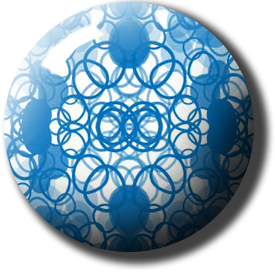
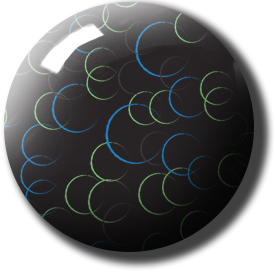
added calendar bubble to animation

diff --git a/index.html b/index.html
@@ -100,6 +100,31 @@ rel="stylesheet"/>
 				<div class="more-info-box-img-box"><img class= "more-info-img" src="images/blackjack.png"></div>
 				<div class="more-info-text"><h1>Blackjack</h2>An app I programmed using javascript and jquery. Everything is coded from scratch. Cards feature a realistic drawing mechanic where if a card is drawn it won't appear again until the deck is shuffled again. <a href="appshowcase.html?app=blackjack">See App</a></div>
 			</div>
+			<div class="more-info-box hidden">
+				<span class="glyphicon glyphicon-remove-circle close-button"></span>
+				<div class="more-info-box-img-box"><img class= "more-info-img" src="images/blackjack.png"></div>
+				<div class="more-info-text"><h1>Blackjack</h2>An app I programmed using javascript and jquery. Everything is coded from scratch. Cards feature a realistic drawing mechanic where if a card is drawn it won't appear again until the deck is shuffled again. <a href="appshowcase.html?app=blackjack">See App</a></div>
+			</div>
+			<div class="more-info-box hidden">
+				<span class="glyphicon glyphicon-remove-circle close-button"></span>
+				<div class="more-info-box-img-box"><img class= "more-info-img" src="images/blackjack.png"></div>
+				<div class="more-info-text"><h1>Blackjack</h2>An app I programmed using javascript and jquery. Everything is coded from scratch. Cards feature a realistic drawing mechanic where if a card is drawn it won't appear again until the deck is shuffled again. <a href="appshowcase.html?app=blackjack">See App</a></div>
+			</div>
+			<div class="more-info-box hidden">
+				<span class="glyphicon glyphicon-remove-circle close-button"></span>
+				<div class="more-info-box-img-box"><img class= "more-info-img" src="images/blackjack.png"></div>
+				<div class="more-info-text"><h1>Blackjack</h2>An app I programmed using javascript and jquery. Everything is coded from scratch. Cards feature a realistic drawing mechanic where if a card is drawn it won't appear again until the deck is shuffled again. <a href="appshowcase.html?app=blackjack">See App</a></div>
+			</div>
+			<div class="more-info-box hidden">
+				<span class="glyphicon glyphicon-remove-circle close-button"></span>
+				<div class="more-info-box-img-box"><img class= "more-info-img" src="images/blackjack.png"></div>
+				<div class="more-info-text"><h1>Blackjack</h2>An app I programmed using javascript and jquery. Everything is coded from scratch. Cards feature a realistic drawing mechanic where if a card is drawn it won't appear again until the deck is shuffled again. <a href="appshowcase.html?app=blackjack">See App</a></div>
+			</div>
+						<div class="more-info-box hidden">
+				<span class="glyphicon glyphicon-remove-circle close-button"></span>
+				<div class="more-info-box-img-box"><img class= "more-info-img" src="images/blackjack.png"></div>
+				<div class="more-info-text"><h1>Blackjack</h2>An app I programmed using javascript and jquery. Everything is coded from scratch. Cards feature a realistic drawing mechanic where if a card is drawn it won't appear again until the deck is shuffled again. <a href="appshowcase.html?app=blackjack">See App</a></div>
+			</div>
 			<div id="home-animation">
 				<div id="home-animation-heading">
 					Project Showcase<br>
@@ -157,6 +182,14 @@ rel="stylesheet"/>
 						<span class="small-text">HTML, CSS, Bootstrap, Javascript, Jquery <br>
 						(Click for More Info)</span></h3>
 					<img src="images/josephsimpsonbubble.png" class="home-animation-links">
+				</div>
+				<div class="home-animation-container home-animation-development">
+					<h3 class="home-animation-info">Title: <br>
+						<p class="small-text"> Calendar</p>
+						Skills:<br>
+						<span class="small-text">HTML, CSS, Javascript, Jquery <br>
+						(Click for More Info)</span></h3>
+					<img src="images/calbubble.png" class="home-animation-links">
 				</div>
 			</div>
 		</div>

diff --git a/CSS/styles.css b/CSS/styles.css
@@ -310,8 +310,6 @@ h1{
     position: absolute;
     top: 50%;
     left: 46%;
-    padding-top: 4vw;
-    padding-bottom: 5vw;
     transform: translate(-50%, -63%);
     color: white;
     background-color: #231f20;
